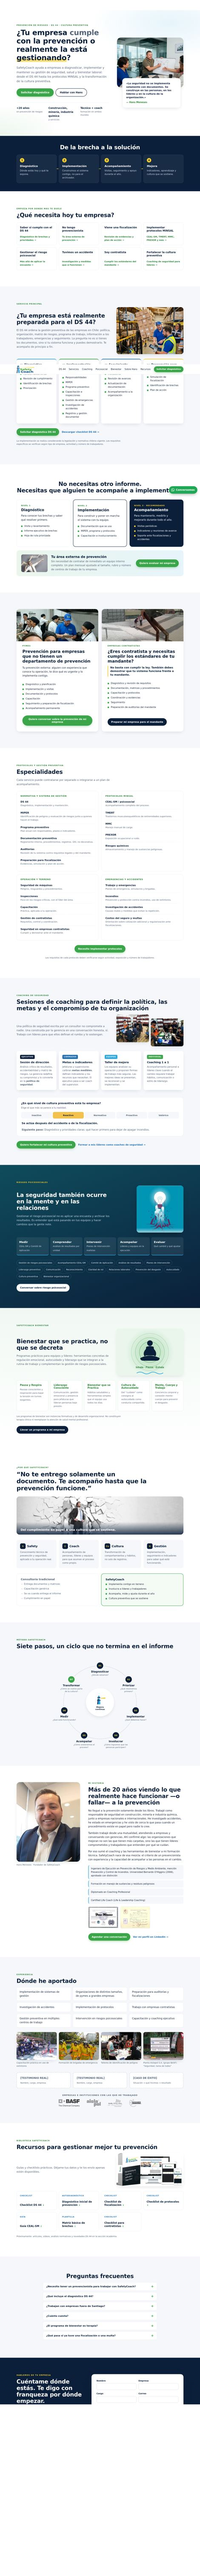
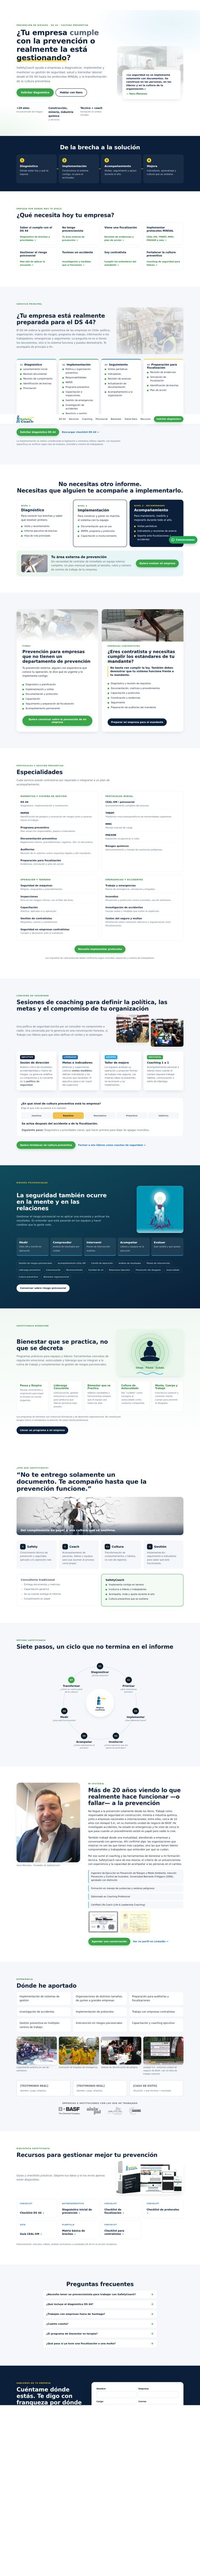
Imágenes IA como marca de agua y experiencia con Aislapol/BASF
Claude-Session: https://claude.ai/code/session_017Tpmnq8JcWow7ZpMtxcRkJ

diff --git a/index.html b/index.html
@@ -126,7 +126,7 @@
           </ul>
         </div>
         <div class="hero-visual">
-          <img class="hero-ill" src="/assets/img/hans-facilitando.webp" alt="Hans Meneses facilitando una sesión de trabajo con un equipo" width="1195" height="896" fetchpriority="high">
+          <img class="hero-ill ai-soft" src="/assets/img/hans-facilitando.webp" alt="Hans Meneses facilitando una sesión de trabajo con un equipo" width="1195" height="896" fetchpriority="high">
           <div class="quote-card">
             <p>«La seguridad no se implementa solamente con documentos. Se construye en las personas, en los líderes y en la cultura de la organización.»</p>
             <span>— Hans Meneses</span>
@@ -175,7 +175,7 @@
         <h2 id="ds44-t">¿Tu empresa está realmente preparada para el DS&nbsp;44?</h2>
         <p class="sub">El DS&nbsp;44 ordena la gestión preventiva de las empresas en Chile: política, organización, matriz de riesgos, programa de trabajo, información a los trabajadores, emergencias y seguimiento. La pregunta no es si tienes los documentos, sino si tu sistema funciona y puedes demostrarlo. Te acompaño de principio a fin.</p>
           </div>
-          <img class="media-img" src="/assets/img/terreno-bodega.webp" alt="Revisión en terreno de condiciones de seguridad en una bodega" width="700" height="928" loading="lazy">
+          <img class="media-img ai-soft" src="/assets/img/terreno-bodega.webp" alt="Revisión en terreno de condiciones de seguridad en una bodega" width="700" height="928" loading="lazy">
         </div>
         <div class="ds-grid">
           <article class="ds-col">
@@ -242,7 +242,7 @@
     <section class="section alt" aria-label="Pymes y contratistas">
       <div class="wrap two-col">
         <article class="panel" id="pymes">
-          <img class="panel-photo" src="/assets/img/terreno-cocina.webp" alt="Hans Meneses junto al equipo de cocina de una pyme durante una visita de prevención" width="700" height="934" loading="lazy">
+          <img class="panel-photo ai-soft" src="/assets/img/terreno-cocina.webp" alt="Hans Meneses junto al equipo de cocina de una pyme durante una visita de prevención" width="700" height="934" loading="lazy">
           <p class="eyebrow">Pymes</p>
           <h2>Prevención para empresas que no tienen un departamento de prevención</h2>
           <p>Tu prevención externa: alguien con experiencia que conoce tu operación, te dice qué es urgente y lo implementa contigo.</p>
@@ -477,7 +477,7 @@
         <div>
           <p class="eyebrow">Mi historia</p>
           <h2 id="hans-t">Más de 20 años viendo lo que realmente hace funcionar —o fallar— a la prevención</h2>
-          <p>No llegué a la prevención solamente desde los libros. Trabajé como responsable de seguridad en construcción, minería e industria química, junto a empresas nacionales e internacionales. He investigado accidentes, he estado en emergencias y he visto de cerca lo que pasa cuando un procedimiento existe en papel pero nadie lo cree.</p>
+          <p>No llegué a la prevención solamente desde los libros. Trabajé como responsable de seguridad en construcción, minería e industria química, junto a empresas nacionales e internacionales; entre ellas, cerca de 10 años con Aislapol S.A., en su momento unidad de negocio de BASF. He investigado accidentes, he estado en emergencias y he visto de cerca lo que pasa cuando un procedimiento existe en papel pero nadie lo cree.</p>
           <p>También trabajé desde una mutualidad, atendiendo a empresas y conversando con gerencias. Ahí confirmé algo: las organizaciones que mejoran no son las que tienen más carpetas, sino las que tienen líderes comprometidos y trabajadores que entienden por qué se cuidan.</p>
           <p>Por eso sumé el coaching y las herramientas de bienestar a mi formación técnica. SafetyCoach nace de esa mezcla: el criterio de un prevencionista con experiencia y la capacidad de acompañar a las personas en el cambio.</p>
           <ul class="creds">
@@ -518,7 +518,7 @@
           <figure><img src="/assets/img/capacitacion-extintores.webp" alt="Capacitación práctica en uso de extintores con trabajadores" width="1000" height="600" loading="lazy"><figcaption>Capacitación práctica en uso de extintores</figcaption></figure>
           <figure><img src="/assets/img/brigada-emergencia.webp" alt="Brigada de emergencia con equipo estructural durante un entrenamiento" width="1000" height="600" loading="lazy"><figcaption>Formación de brigadas de emergencia</figcaption></figure>
           <figure><img src="/assets/img/taller-riesgos-3.webp" alt="Taller de identificación de peligros con un equipo de operaciones" width="1000" height="750" loading="lazy"><figcaption>Talleres de identificación de peligros</figcaption></figure>
-          <figure><img src="/assets/img/planta-aislapol.webp" alt="Letrero de planta Aislapol S.A., grupo BASF: Seguridad tarea de todos, 540 días sin accidentes" width="1000" height="750" loading="lazy"><figcaption>Planta Aislapol S.A. (grupo BASF): “Seguridad, tarea de todos”</figcaption></figure>
+          <figure><img src="/assets/img/planta-aislapol.webp" alt="Letrero de planta Aislapol S.A., grupo BASF: Seguridad tarea de todos, 540 días sin accidentes" width="1000" height="750" loading="lazy"><figcaption>Aislapol S.A., entonces unidad de negocio de BASF: casi 10 años de trabajo conjunto</figcaption></figure>
         </div>
         <div class="proof-grid">
           <blockquote class="ph">[TESTIMONIO REAL]<cite>Nombre, cargo, empresa</cite></blockquote>

diff --git a/assets/css/styles.css b/assets/css/styles.css
@@ -439,3 +439,17 @@ details p { padding: 0 22px 18px; margin: 0; color: var(--muted); }
   .logos { gap: 20px 28px; }
   .logos img { height: 40px; }
 }
+
+/* ---------- Imágenes referenciales (generadas con IA): estilo marca de agua ---------- */
+.ai-soft {
+  opacity: .32;
+  filter: grayscale(.5) blur(1.2px);
+  box-shadow: none !important;
+  -webkit-mask-image: radial-gradient(ellipse 75% 75% at 50% 50%, #000 45%, transparent 100%);
+          mask-image: radial-gradient(ellipse 75% 75% at 50% 50%, #000 45%, transparent 100%);
+}
+.panel-photo.ai-soft {
+  -webkit-mask-image: linear-gradient(#000 40%, transparent);
+          mask-image: linear-gradient(#000 40%, transparent);
+}
+.hero-visual .ai-soft + .quote-card { margin-top: -180px; }
